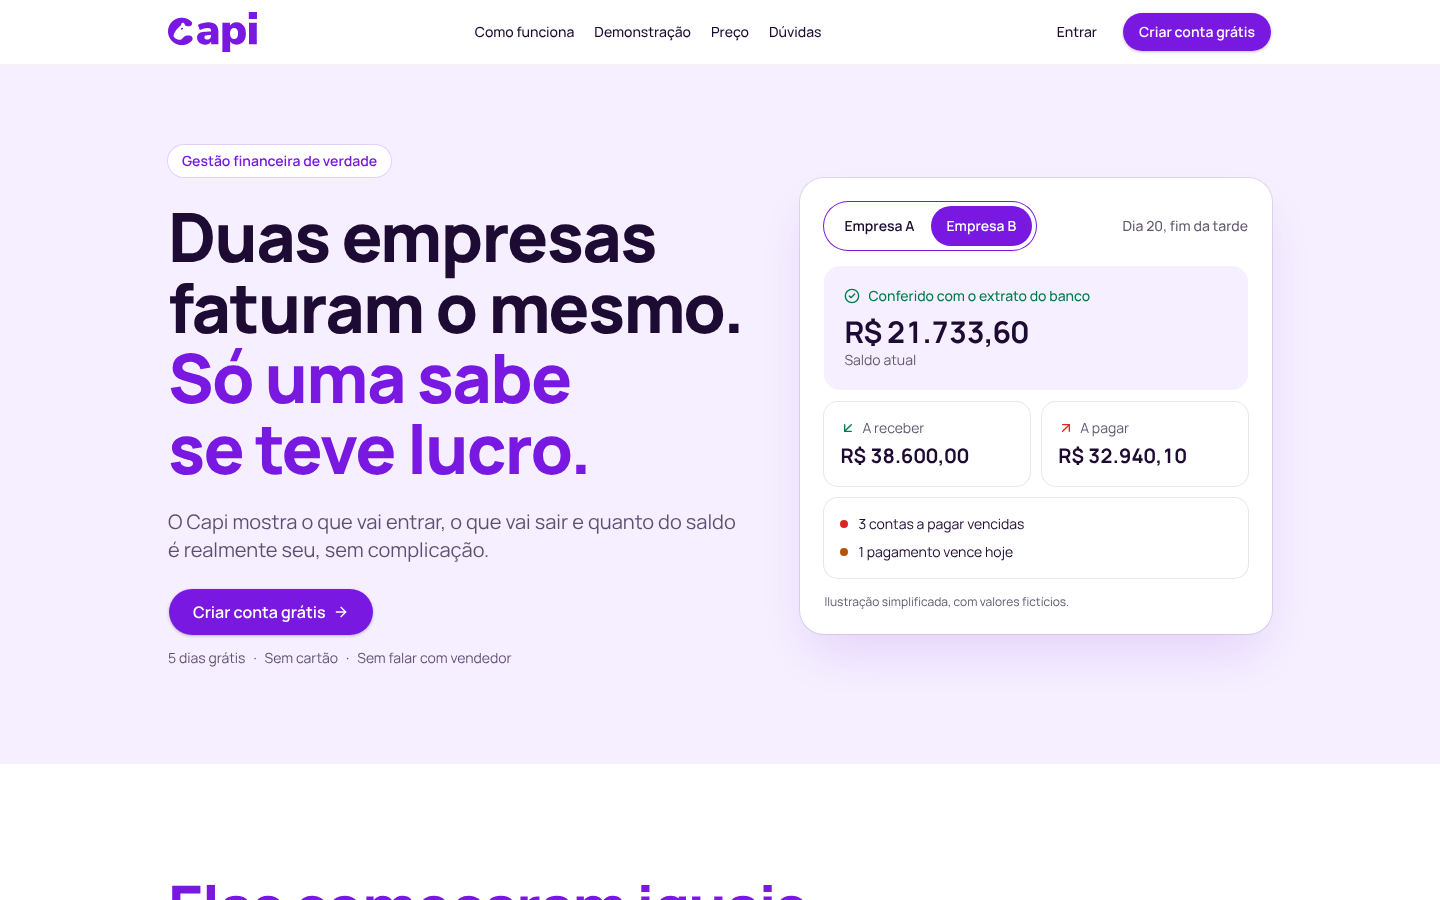
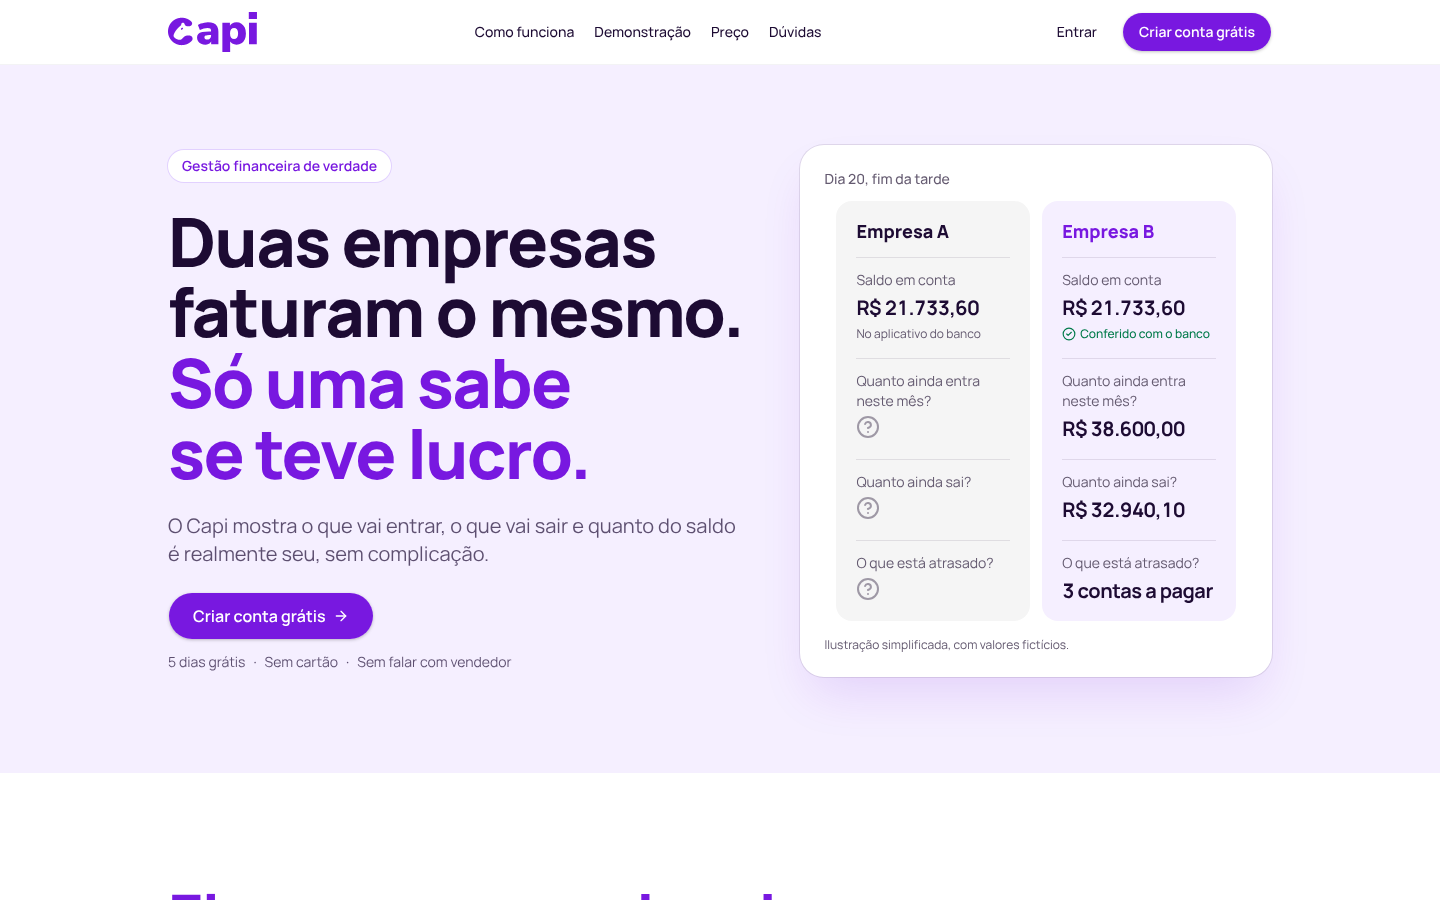
feat: comparação das duas empresas lado a lado no hero
Troca o seletor por duas colunas com as mesmas perguntas: a Empresa A
só tem o saldo, a Empresa B tem as respostas.

Claude-Session: https://claude.ai/code/session_01ViKXZZMnpFTD1XPfjWS9uZ

diff --git a/src/components/landing/company-compare.tsx b/src/components/landing/company-compare.tsx
@@ -1,168 +1,91 @@
-"use client"
-
-import { useEffect, useRef, useState } from "react"
-import { AnimatePresence, motion, useReducedMotion } from "motion/react"
-import { ArrowDownLeft, ArrowUpRight, CircleCheck, CircleHelp, Landmark } from "lucide-react"
+import { CircleCheck, CircleHelp } from "lucide-react"
 
 import { cn } from "@/lib/utils"
 
 import { brl } from "./primitives"
 
-type Company = "a" | "b"
-
-const BALANCE = 21733.6
-
-const OPTIONS: { value: Company; label: string }[] = [
-  { value: "a", label: "Empresa A" },
-  { value: "b", label: "Empresa B" },
+// The headline as a picture: the same day at the two companies, side by
+// side. Both have the same bank balance; only one can answer the questions
+// that follow. A simplified drawing with made-up figures, every answer being
+// something the app's dashboard shows.
+const QUESTIONS = [
+  { question: "Quanto ainda entra neste mês?", answer: brl(38600) },
+  { question: "Quanto ainda sai?", answer: brl(32940.1) },
+  { question: "O que está atrasado?", answer: "3 contas a pagar" },
 ]
 
-// The headline, made clickable: the same day at the two companies. One only
-// has the bank balance; the other sees it broken down in Capi. A simplified
-// drawing of the real dashboard, with made-up figures.
+const BALANCE = brl(21733.6)
+
+const cell = "w-1/2 px-3 pb-4 align-top sm:px-5"
+const capiCell = "bg-capi-lilac-light"
+
 export function CompanyCompare() {
-  const [company, setCompany] = useState<Company>("a")
-  const touched = useRef(false)
-  const reduceMotion = useReducedMotion()
-
-  // Flip once on its own to hint that the switch is there; never again after
-  // the visitor takes over.
-  useEffect(() => {
-    if (reduceMotion) return
-    const timer = setTimeout(() => {
-      if (!touched.current) setCompany("b")
-    }, 2800)
-    return () => clearTimeout(timer)
-  }, [reduceMotion])
-
-  const choose = (value: Company) => {
-    touched.current = true
-    setCompany(value)
-  }
-
   return (
     <div className="rounded-3xl bg-background p-4 shadow-2xl ring-1 shadow-capi-purple/15 ring-foreground/10 sm:p-6">
-      <div className="flex flex-wrap items-center justify-between gap-3">
-        <div role="tablist" aria-label="Escolha a empresa" className="flex rounded-full bg-background p-1 ring-1 ring-primary">
-          {OPTIONS.map(({ value, label }) => (
-            <button
-              key={value}
-              type="button"
-              role="tab"
-              id={`empresa-${value}-tab`}
-              aria-selected={company === value}
-              aria-controls="empresa-painel"
-              onClick={() => choose(value)}
-              className={cn(
-                "relative h-10 rounded-full px-4 text-sm font-semibold outline-none transition-colors focus-visible:ring-3 focus-visible:ring-ring/40",
-                company === value ? "text-primary-foreground" : "text-foreground hover:text-primary"
-              )}
-            >
-              {company === value && (
-                <motion.span
-                  layoutId="empresa-pill"
-                  className="absolute inset-0 rounded-full bg-primary"
-                  transition={reduceMotion ? { duration: 0 } : { type: "spring", duration: 0.4, bounce: 0.15 }}
-                />
-              )}
-              <span className="relative">{label}</span>
-            </button>
-          ))}
-        </div>
-        <p className="text-sm font-medium text-muted-foreground">Dia 20, fim da tarde</p>
-      </div>
-
-      <div
-        id="empresa-painel"
-        role="tabpanel"
-        aria-labelledby={`empresa-${company}-tab`}
-        className="mt-4 grid min-h-[21rem] sm:min-h-[19.5rem]"
-      >
-        <AnimatePresence mode="wait" initial={false}>
-          <motion.div
-            key={company}
-            initial={reduceMotion ? false : { opacity: 0, y: 8 }}
-            animate={{ opacity: 1, y: 0 }}
-            exit={reduceMotion ? undefined : { opacity: 0, y: -8 }}
-            transition={{ duration: 0.2 }}
-            className="flex flex-col"
-          >
-            {company === "a" ? <BankOnly /> : <WithCapi />}
-          </motion.div>
-        </AnimatePresence>
-      </div>
-
+      <p className="text-sm font-medium text-muted-foreground">Dia 20, fim da tarde</p>
+      <table className="mt-3 w-full table-fixed border-separate border-spacing-x-2 border-spacing-y-0 text-left sm:border-spacing-x-3">
+        <caption className="sr-only">O que cada empresa sabe sobre o próprio dinheiro</caption>
+        <thead>
+          <tr>
+            <th scope="col" className="rounded-t-2xl bg-muted px-3 pt-4 pb-3 text-base font-extrabold sm:px-5 sm:text-lg">
+              Empresa A
+            </th>
+            <th scope="col" className={cn("rounded-t-2xl px-3 pt-4 pb-3 text-base font-extrabold text-primary sm:px-5 sm:text-lg", capiCell)}>
+              Empresa B
+            </th>
+          </tr>
+        </thead>
+        <tbody>
+          <tr>
+            <td className={cn(cell, "bg-muted")}>
+              <Label>Saldo em conta</Label>
+              <Value>{BALANCE}</Value>
+              <p className="mt-1 text-xs text-muted-foreground">No aplicativo do banco</p>
+            </td>
+            <td className={cn(cell, capiCell)}>
+              <Label>Saldo em conta</Label>
+              <Value>{BALANCE}</Value>
+              <p className="mt-1 flex items-center gap-1 text-xs font-medium text-capi-green-text">
+                <CircleCheck className="size-3.5 shrink-0" aria-hidden />
+                Conferido com o banco
+              </p>
+            </td>
+          </tr>
+          {QUESTIONS.map(({ question, answer }, index) => {
+            const last = index === QUESTIONS.length - 1
+            return (
+              <tr key={question}>
+                <td className={cn(cell, "bg-muted", last && "rounded-b-2xl")}>
+                  <Label>{question}</Label>
+                  <CircleHelp className="size-6 text-muted-foreground/60" role="img" aria-label="Não sabe" />
+                </td>
+                <td className={cn(cell, capiCell, last && "rounded-b-2xl")}>
+                  <Label>{question}</Label>
+                  <Value
+                    className="motion-safe:animate-in motion-safe:fade-in motion-safe:slide-in-from-bottom-1 motion-safe:fill-mode-backwards motion-safe:duration-500"
+                    style={{ animationDelay: `${0.6 + index * 0.25}s` }}
+                  >
+                    {answer}
+                  </Value>
+                </td>
+              </tr>
+            )
+          })}
+        </tbody>
+      </table>
       <p className="mt-4 text-xs text-muted-foreground">Ilustração simplificada, com valores fictícios.</p>
     </div>
   )
 }
 
-const UNKNOWNS = ["Quanto ainda entra neste mês?", "Quanto ainda sai?", "Quanto desse saldo é meu?"]
-
-function BankOnly() {
-  return (
-    <div className="flex flex-1 flex-col gap-3">
-      <div className="rounded-2xl bg-muted p-5">
-        <p className="flex items-center gap-2 text-sm text-muted-foreground">
-          <Landmark className="size-4" aria-hidden />
-          Aplicativo do banco
-        </p>
-        <p className="mt-2 text-3xl font-bold tracking-tight tabular-nums">{brl(BALANCE)}</p>
-        <p className="text-sm text-muted-foreground">Saldo em conta</p>
-      </div>
-      <ul className="flex flex-1 flex-col justify-between gap-2">
-        {UNKNOWNS.map((question) => (
-          <li
-            key={question}
-            className="flex items-center justify-between gap-3 rounded-xl border border-dashed px-4 py-3 text-sm text-muted-foreground"
-          >
-            {question}
-            <CircleHelp className="size-5 shrink-0 text-muted-foreground/60" role="img" aria-label="Não sabe" />
-          </li>
-        ))}
-      </ul>
-    </div>
-  )
+function Label({ children }: { children: React.ReactNode }) {
+  return <p className="mb-1 border-t border-foreground/10 pt-3 text-xs text-pretty text-muted-foreground sm:text-sm">{children}</p>
 }
 
-const ALERTS = [
-  { tone: "bg-negative", text: "3 contas a pagar vencidas" },
-  { tone: "bg-warning", text: "1 pagamento vence hoje" },
-]
-
-function WithCapi() {
+function Value({ children, className, style }: { children: React.ReactNode; className?: string; style?: React.CSSProperties }) {
   return (
-    <div className="flex flex-1 flex-col gap-3">
-      <div className="rounded-2xl bg-capi-lilac-light p-5">
-        <p className="flex items-center gap-2 text-sm font-medium text-capi-green-text">
-          <CircleCheck className="size-4" aria-hidden />
-          Conferido com o extrato do banco
-        </p>
-        <p className="mt-2 text-3xl font-bold tracking-tight tabular-nums">{brl(BALANCE)}</p>
-        <p className="text-sm text-muted-foreground">Saldo atual</p>
-      </div>
-      <dl className="grid grid-cols-2 gap-3">
-        <div className="rounded-xl p-4 ring-1 ring-foreground/10">
-          <dt className="flex items-center gap-1.5 text-sm text-muted-foreground">
-            <ArrowDownLeft className="size-4 text-positive" aria-hidden />A receber
-          </dt>
-          <dd className="mt-1 text-lg font-bold tabular-nums sm:text-xl">{brl(38600)}</dd>
-        </div>
-        <div className="rounded-xl p-4 ring-1 ring-foreground/10">
-          <dt className="flex items-center gap-1.5 text-sm text-muted-foreground">
-            <ArrowUpRight className="size-4 text-negative" aria-hidden />A pagar
-          </dt>
-          <dd className="mt-1 text-lg font-bold tabular-nums sm:text-xl">{brl(32940.1)}</dd>
-        </div>
-      </dl>
-      <ul className="flex flex-1 flex-col justify-center gap-2 rounded-xl px-4 py-3 text-sm ring-1 ring-foreground/10">
-        {ALERTS.map(({ tone, text }) => (
-          <li key={text} className="flex items-center gap-2.5">
-            <span className={cn("size-2 rounded-full", tone)} aria-hidden />
-            {text}
-          </li>
-        ))}
-      </ul>
-    </div>
+    <p style={style} className={cn("text-base font-bold tracking-tight tabular-nums sm:text-xl", className)}>
+      {children}
+    </p>
   )
 }
